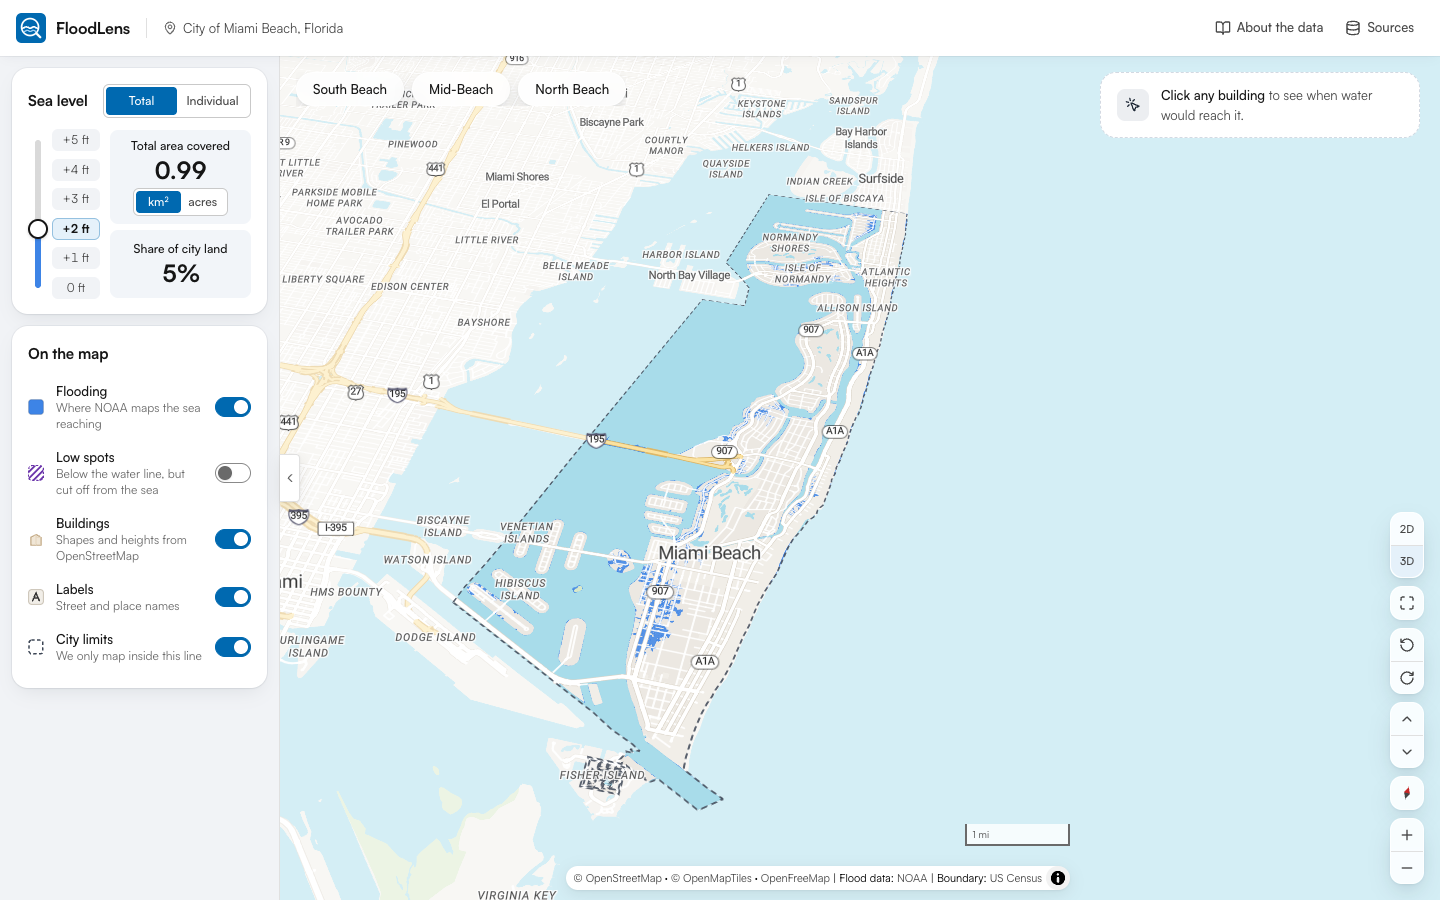
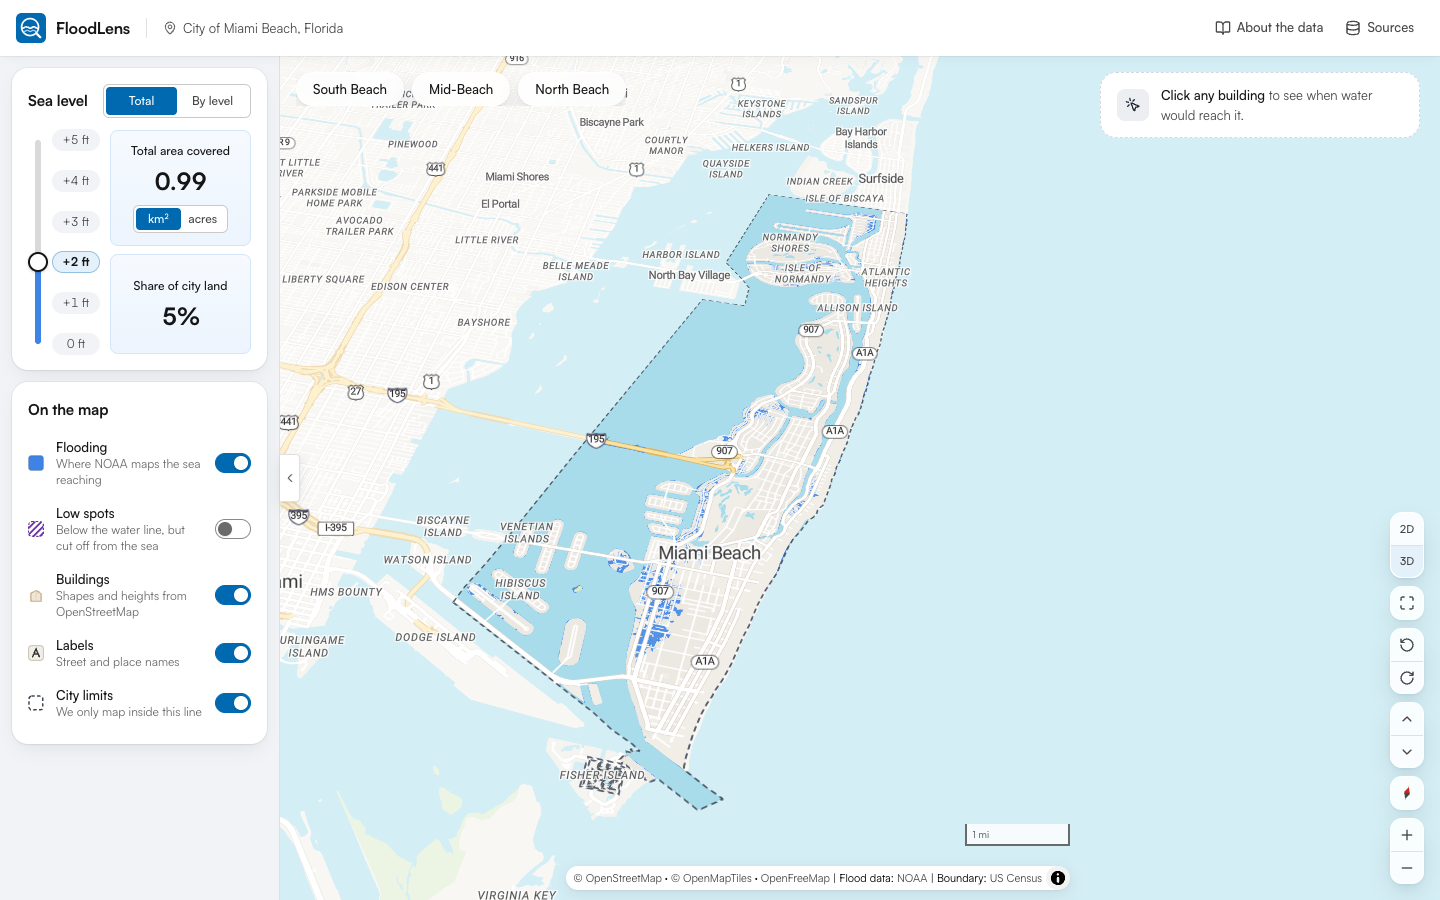
v0.41: Plasma, "By level" and better figure boxes
- By level colours are matplotlib's Plasma: a distinct colour per
  level, closest neighbours OKLab dE 15.1 (was 3.9)
- "Total / By level" replaces "Total / Individual"
- Level chips are pills
- Figure boxes styled like the place card's answer box, equal
  height, roomier; slider up to 224 px
- Height, Footprint and Low spot values in semibold

107 unit tests and 19 end-to-end tests pass.

Changed region(s): [[0.0, 0.1556, 0.1875, 0.8089], [0.125, 0.0933, 0.1562, 0.1244]]

diff --git a/tests/e2e/app.spec.ts b/tests/e2e/app.spec.ts
@@ -35,9 +35,9 @@ test.describe('FloodLens — core flows', () => {
     await req
     await expect(slider).toHaveAttribute('aria-valuetext', '+3 ft above MHHW')
     await expect(figure(page)).toContainText('7.43')
-    // The legend is a plain vertical scale, shown with Individual colours (v0.35): every level listed,
+    // The legend is a plain vertical scale, shown with By level colours (v0.35): every level listed,
     // the chosen one marked, nothing a button.
-    await page.getByRole('radio', { name: 'Individual' }).click()
+    await page.getByRole('radio', { name: 'By level' }).click()
     await slider.focus()
     const legendBox = page.getByRole('region', { name: 'Map legend' })
     await expect(legendBox.getByRole('listitem')).toHaveCount(6)
@@ -79,14 +79,14 @@ test.describe('FloodLens — core flows', () => {
     expect(Math.abs(t.y + t.height / 2 - (g.y + g.height / 2))).toBeLessThan(4)
   })
 
-  test('Total shows all the area covered, Individual only what the level adds (v0.36, v0.38)', async ({ page }) => {
+  test('Total shows all the area covered, By level only what the level adds (v0.36, v0.38)', async ({ page }) => {
     await page.goto('/')
     await waitForMap(page)
     const fig = figure(page)
     const slider = page.getByRole('slider')
     // +2 ft: 0.99 km² in all, of which +2 ft adds 0.95 km² (the rest came at +1 ft).
     await expect(fig).toHaveText('Total area covered0.99km²acresShare of city land5%')
-    await page.getByRole('radio', { name: 'Individual' }).click()
+    await page.getByRole('radio', { name: 'By level' }).click()
     await expect(fig).toHaveText('New area covered0.95km²acresShare of city land5%')
     await slider.focus()
     await page.keyboard.press('ArrowRight')
@@ -98,7 +98,7 @@ test.describe('FloodLens — core flows', () => {
     await expect(fig).toHaveText('Total area covered0km²acresShare of city land0%')
     // Today's level is "0 ft" on the slider (v0.40; "Today" before).
     await expect(seaLevel(page).getByRole('button', { name: '0 ft', exact: true, includeHidden: true })).toHaveClass(/font-bold/)
-    await page.getByRole('radio', { name: 'Individual' }).click()
+    await page.getByRole('radio', { name: 'By level' }).click()
     await slider.focus()
     await page.keyboard.press('ArrowRight')
     await expect(fig).toHaveText('New area covered0.038km²acresShare of city land0.2%')
@@ -116,7 +116,7 @@ test.describe('FloodLens — core flows', () => {
     await expect(unit.getByRole('radio', { name: 'Square kilometres' })).toHaveAttribute('aria-checked', 'true')
     await unit.getByRole('radio', { name: 'Acres' }).click()
     await expect(figure(page)).toHaveText('Total area covered244km²acresShare of city land5%')
-    await page.getByRole('radio', { name: 'Individual' }).click()
+    await page.getByRole('radio', { name: 'By level' }).click()
     await expect(figure(page)).toHaveText('New area covered235km²acresShare of city land5%')
     // The low-spot line follows the unit.
     await page.getByRole('switch', { name: /Low spots/ }).click()
@@ -217,7 +217,7 @@ test.describe('FloodLens — core flows', () => {
     await expect(page.getByRole('button', { name: 'Zoom in' })).toBeVisible()
   })
 
-  test('colour modes: Total by default, Individual gives each foot its own colour, and the choice is remembered', async ({ page }) => {
+  test('colour modes: Total by default, By level gives each foot its own colour, and the choice is remembered', async ({ page }) => {
     await page.goto('/')
     await waitForMap(page)
     const modes = page.getByRole('radiogroup', { name: 'Map colours' })
@@ -231,13 +231,13 @@ test.describe('FloodLens — core flows', () => {
     // One colour needs no key (v0.35).
     await expect(page.getByRole('region', { name: 'Map legend' })).toHaveCount(0)
 
-    await modes.getByRole('radio', { name: 'Individual' }).click()
-    // The owner's yellow → orange swatches (v0.40): +1 ft and +2 ft.
-    await expect.poll(trackColours).toEqual(['rgb(240, 221, 74)', 'rgb(240, 179, 63)'])
+    await modes.getByRole('radio', { name: 'By level' }).click()
+    // Plasma (v0.41): +1 ft orange and +2 ft coral.
+    await expect.poll(trackColours).toEqual(['rgb(252, 166, 54)', 'rgb(225, 100, 98)'])
     await expect(page.getByRole('region', { name: 'Map legend' })).toContainText('Water first reaches')
     await page.reload()
     await waitForMap(page)
-    await expect(page.getByRole('radio', { name: 'Individual' })).toHaveAttribute('aria-checked', 'true')
+    await expect(page.getByRole('radio', { name: 'By level' })).toHaveAttribute('aria-checked', 'true')
   })
 
   test('the map credit starts open, folds into an (i) on the first drag, and the (i) opens it again', async ({ page }) => {
@@ -298,7 +298,7 @@ test.describe('FloodLens — core flows', () => {
   test('layer toggles respond, and the legend follows the flooding layer', async ({ page }) => {
     await page.goto('/')
     await waitForMap(page)
-    await page.getByRole('radio', { name: 'Individual' }).click()
+    await page.getByRole('radio', { name: 'By level' }).click()
     const low = page.getByRole('switch', { name: 'Low spots' })
     const req = page.waitForRequest(/low_2ft\.geojson/)
     await low.click()

diff --git a/src/components/controls/SubmergedArea.tsx b/src/components/controls/SubmergedArea.tsx
@@ -14,15 +14,19 @@ interface Props {
 }
 
 /**
- * One figure in a soft tinted box (v0.39), centred: label, then the number at the agreed stat
- * size (24 px bold), then anything under it. The boxes share the column's height between them
- * and tighten on short windows (the `short` variant), so the panel still fits without scrolling.
+ * One figure in a box, centred: label, then the number at the agreed stat size (24 px bold), then
+ * anything under it. The box matches the place card's "Water reaches at" box, a faint blue
+ * gradient with a hairline (v0.41; a flat grey-blue fill in v0.39–v0.40), so the two panels read
+ * as one design. The elements have room to breathe (8 px label to number, 10 px number to switch).
+ * Both boxes take an equal share of the column (basis 0), so they're the same height whenever
+ * there's room; on the shortest windows the second gives way first. They tighten on short windows
+ * (the `short` variant), so the panel still fits without scrolling.
  */
 function Figure({ label, value, children }: { label: string; value: string; children?: ReactNode }) {
   return (
-    <div className="flex flex-1 flex-col items-center justify-center rounded-lg bg-[#f2f5f9] px-1.5 py-2 text-center short:py-1">
+    <div className="flex flex-1 basis-0 flex-col items-center justify-center rounded-lg border border-[#d5e6fa] bg-gradient-to-b from-[#f6faff] to-[#ecf4fd] px-2 py-3 text-center short:py-0.5">
       <p className="text-[12px] leading-4 font-medium whitespace-nowrap text-fg short:text-[11px] short:leading-[14px]">{label}</p>
-      <p className="mt-0.5 text-[24px] leading-7 font-bold tracking-[-0.03em] text-fg tabular short:text-[20px] short:leading-6">{value}</p>
+      <p className="mt-2 text-[24px] leading-7 font-bold tracking-[-0.03em] text-fg tabular short:mt-1 short:text-[20px] short:leading-6">{value}</p>
       {children}
     </div>
   )
@@ -32,7 +36,7 @@ function Figure({ label, value, children }: { label: string; value: string; chil
  * Land underwater at the chosen level, beside the slider (v0.36; the "Land underwater" card in
  * Insights before). Total colours show everything covered at the level; Individual colours show
  * only what that foot adds to the one below, as each colour on the map does ("Total area covered"
- * and "New area covered", v0.38). Two figures of equal weight in two boxes, 6 px apart (v0.39):
+ * and "New area covered", v0.38). Two figures of equal weight in two boxes, 8 px apart (v0.39):
  * the area, with a km² / acres switch under it in the style of Total / Individual (one unit at a
  * time; v0.38 showed both), and its share of the city's Census land area, the same denominator in
  * both modes. Today's high tide reads 0, never a blank. Nothing is shown until the data has loaded.
@@ -42,9 +46,9 @@ export function SubmergedArea({ manifest, scenarioFt, colorMode, unit, onUnitCha
   if (m2 === undefined) return null
   const landM2 = manifest?.studyArea.boundary?.censusLandM2
   return (
-    <div className="flex h-full flex-col gap-1.5" aria-live="polite">
+    <div className="flex h-full flex-col gap-2 short:gap-1.5" aria-live="polite">
       <Figure label={colorMode === 'simple' ? 'Total area covered' : 'New area covered'} value={formatArea(m2, unit)}>
-        <div className="mt-1">
+        <div className="mt-2.5 short:mt-1">
           <AreaUnitToggle value={unit} onChange={onUnitChange} />
         </div>
       </Figure>

diff --git a/src/components/controls/ScenarioSelector.tsx b/src/components/controls/ScenarioSelector.tsx
@@ -21,7 +21,7 @@ interface Props {
  * panel adds (the low-spot area, v0.36). It never goes below the height of the two figure boxes
  * beside it on a short window.
  */
-const TRACK_H = 'clamp(132px, calc(100vh - var(--fl-panel-rest, 532px) - var(--fl-panel-extra, 0px)), 168px)'
+const TRACK_H = 'clamp(132px, calc(100vh - var(--fl-panel-rest, 532px) - var(--fl-panel-extra, 0px)), 224px)'
 const THUMB = 20
 
 /**
@@ -82,9 +82,9 @@ export function ScenarioSelector({ available, value, onChange, colorMode = 'deta
             />
           </div>
           {/* Each level is a chip you can click (v0.38; plain text before): a light fill at rest, darker on
-              hover, the chosen one filled with the accent tint and bold; the name centred (v0.39), 6 px
-              corners like the toggles and boxes (v0.40; square in v0.39). Today's level is "0 ft"
-              (v0.40). The slider is the keyboard route. 48 px leaves the most room for `children`. */}
+              hover, the chosen one filled with the accent tint and bold; the name centred (v0.39), as
+              pills (v0.41; 6 px corners in v0.40, square in v0.39). Today's level is "0 ft" (v0.40).
+              The slider is the keyboard route. 48 px leaves the most room for `children`. */}
           <div className="relative ml-1 w-12" aria-hidden="true">
             {available.map((ft, i) => (
               <button
@@ -93,7 +93,7 @@ export function ScenarioSelector({ available, value, onChange, colorMode = 'deta
                 tabIndex={-1}
                 onClick={() => onChange(ft)}
                 style={{ bottom: pos(i), height: chipH }}
-                className={`absolute left-0 flex w-full translate-y-1/2 cursor-pointer items-center justify-center rounded-md px-1 text-center text-xs whitespace-nowrap tabular transition-colors ${
+                className={`absolute left-0 flex w-full translate-y-1/2 cursor-pointer items-center justify-center rounded-full px-1 text-center text-xs whitespace-nowrap tabular transition-colors ${
                   ft === value ? 'bg-accent-soft font-bold text-fg ring-1 ring-accent/35 ring-inset' : 'bg-canvas text-fg-muted hover:bg-[#e4e8ee] hover:text-fg'
                 }`}
               >

diff --git a/src/lib/theme.ts b/src/lib/theme.ts
@@ -63,13 +63,15 @@ export type ColorMode = 'simple' | 'detailed'
 export const SIMPLE_COLOR = '#3d84e6'
 
 /**
- * Detailed mode ("Individual"): the level where water first reaches each area, light → dark as
- * the sea rises (more water, darker). v0.40: the owner's own yellow → orange swatches (six of the
- * eight in their reference, picked to stay furthest apart). Drawn at 85% over the land, the
- * closest neighbouring pair is OKLab ΔE 3.9 for normal vision and 2.8 for colour-blind vision,
- * closer than v0.38's ramp, and the yellow end is near the land and buildings for tritanopia;
- * the white edge between levels (`BAND_EDGE`) helps tell them apart. Every band is ΔE 13+ from
- * the water.
+ * Detailed mode ("By level"): the level where water first reaches each area, light → dark as the
+ * sea rises (more water, darker). v0.41: matplotlib's Plasma, six steps, yellow → orange → coral
+ * → magenta → purple → indigo. The owner wanted a different colour for each level that's easy to
+ * tell apart on the map without looking improvised; Plasma is a standard, perceptually even
+ * science palette. Drawn at 85% over the land, the closest neighbouring pair is OKLab ΔE 15.1 for
+ * normal vision (6.2 for protanopia, 9.0 for deuteranopia), and every band is far from the water,
+ * parks and buildings (ΔE 15+). +4 ft's purple is close to the low-spot hatch colour; the hatch
+ * pattern keeps low spots apart.
+ * v0.40: #f3f351 #f0dd4a #f0b33f #ec9a38 #e77631 #e7612a (the owner's yellow → orange, ΔE 3.9).
  * v0.38–v0.39: #fee391 #fec44f #fe9929 #ec7014 #cc4c02 #8c2d04 (yellow → red-brown, ΔE 7.3 / 6.8).
  * v0.37: #ddf0fb #a9d9f5 #6fb9e8 #3593d2 #1168b2 #083d77 (the owner's blues).
  * v0.35–v0.36: #dceff5 #a6d8ed #6db6db #338ec4 #1766a1 #083b75.
@@ -77,12 +79,12 @@ export const SIMPLE_COLOR = '#3d84e6'
  * v0.33 and before: #9ec5f4 #67a3ea #3d80d2 #1f5fae #104180 #022555.
  */
 export const BAND_COLORS: Record<number, string> = {
-  0: '#f3f351',
-  1: '#f0dd4a',
-  2: '#f0b33f',
-  3: '#ec9a38',
-  4: '#e77631',
-  5: '#e7612a',
+  0: '#f0f921',
+  1: '#fca636',
+  2: '#e16462',
+  3: '#b12a90',
+  4: '#6a00a8',
+  5: '#0d0887',
 }
 
 /**

diff --git a/src/components/controls/SubmergedArea.test.tsx b/src/components/controls/SubmergedArea.test.tsx
@@ -41,21 +41,21 @@ describe('<SubmergedArea>', () => {
     expect(boxes(container)).toEqual(['Total area covered2.30km²acres', 'Share of city land23%'])
   })
 
-  it('Individual: only what the level adds to the one below, with the same denominator', () => {
+  it('By level: only what the level adds to the one below, with the same denominator', () => {
     const { container } = render(<Harness ft={3} mode="detailed" />)
     expect(boxes(container)).toEqual(['New area covered1.80km²acres', 'Share of city land18%'])
   })
 
-  it('puts each figure in its own centred box, the share as large as the area (v0.39)', () => {
+  it('puts each figure in its own centred box, styled like the answer box, the share as large as the area (v0.39, v0.41)', () => {
     render(<Harness ft={2} mode="simple" />)
     for (const n of ['0.50', '5%']) {
       const value = screen.getByText(n)
       expect(value).toHaveClass('text-[24px]', 'font-bold')
-      expect(value.parentElement).toHaveClass('text-center', 'bg-[#f2f5f9]')
+      expect(value.parentElement).toHaveClass('text-center', 'border-[#d5e6fa]', 'from-[#f6faff]', 'basis-0')
     }
   })
 
-  it('shows one unit at a time, switched like Total / Individual (v0.39)', async () => {
+  it('shows one unit at a time, switched like Total / By level (v0.39)', async () => {
     render(<Harness ft={2} mode="simple" />)
     const km2 = screen.getByRole('radio', { name: 'Square kilometres' })
     expect(km2).toHaveAttribute('aria-checked', 'true')

diff --git a/src/components/controls/ControlPanel.tsx b/src/components/controls/ControlPanel.tsx
@@ -43,7 +43,7 @@ export function ControlPanel({ manifest }: Props) {
       <section aria-labelledby="sec-level" className="card p-4 short:p-3">
         {/* The colour toggle sits beside the title (v0.35): one colour for all the water, or a
             colour for each foot (v0.34). Named Single and Layered in v0.35, Overview and Layered in v0.37,
-            Total and Individual in v0.38 (the owner's names). */}
+            Total and Individual in v0.38 (the owner's names), Total and By level in v0.41. */}
         <div className="mb-3 flex items-center justify-between gap-3">
           <h2 id="sec-level" className="t-title text-[15px] font-bold tracking-[-0.01em]">
             Sea level
@@ -56,7 +56,7 @@ export function ControlPanel({ manifest }: Props) {
             onChange={(mode) => dispatch({ type: 'setColorMode', mode })}
             options={[
               { value: 'simple', label: 'Total' },
-              { value: 'detailed', label: 'Individual' },
+              { value: 'detailed', label: 'By level' },
             ]}
           />
         </div>

diff --git a/tests/e2e/screenshots.spec.ts b/tests/e2e/screenshots.spec.ts
@@ -16,12 +16,12 @@ test.describe('screenshots', () => {
     await page.waitForTimeout(2500)
     await page.screenshot({ path: `${OUT}/01-overview-2ft-3d.png` })
 
-    // Individual colours at the top level (+5 ft): what +5 ft adds, beside the slider
-    await page.getByRole('radio', { name: 'Individual' }).click()
+    // By level colours at the top level (+5 ft): what +5 ft adds, beside the slider
+    await page.getByRole('radio', { name: 'By level' }).click()
     await page.getByRole('slider').focus()
     await page.keyboard.press('End')
     await page.waitForTimeout(2500)
-    await page.screenshot({ path: `${OUT}/02-individual-5ft.png` })
+    await page.screenshot({ path: `${OUT}/02-by-level-5ft.png` })
 
     // 2D + inspection of the map centre
     await page.getByRole('button', { name: '2D view' }).click()

diff --git a/src/components/insights/InspectionCard.test.tsx b/src/components/insights/InspectionCard.test.tsx
@@ -85,6 +85,8 @@ describe('<InspectionCard>', () => {
     const icon = (label: string) => screen.getAllByRole('term').find((t) => t.textContent === label)!.querySelector('svg')!
     for (const label of ['Height', 'Footprint', 'Low spot']) expect(icon(label).parentElement).toHaveClass('size-7', 'rounded-lg')
     expect(icon('Low spot')).toHaveClass('lucide-low-spot')
+    // Values in semibold (v0.41).
+    for (const d of screen.getAllByRole('definition')) expect(d).toHaveClass('font-semibold')
   })
 
   it('explains places outside the city boundary instead of showing results', () => {

diff --git a/src/styles/index.css b/src/styles/index.css
@@ -1,8 +1,9 @@
 @import 'tailwindcss';
 @import 'maplibre-gl/dist/maplibre-gl.css';
 
-/* Windows 700 px tall or less (v0.39): the left panel tightens so it still fits without scrolling. */
-@custom-variant short (@media (max-height: 700px));
+/* Windows 750 px tall or less (v0.39; 700 px until v0.40): the left panel tightens so it still
+   fits without scrolling. */
+@custom-variant short (@media (max-height: 750px));
 
 /* ---------------------------------------------------------------------------
    Design tokens — light, ArcGIS/Calcite-inspired. One source of truth for UI

diff --git a/src/components/controls/ControlPanel.test.tsx b/src/components/controls/ControlPanel.test.tsx
@@ -23,7 +23,7 @@ describe('<ControlPanel>', () => {
     expect(screen.getByRole('radio', { name: 'Total' })).toHaveAttribute('aria-checked', 'true')
     expect(screen.getByText('Total area covered')).toBeInTheDocument()
     expect(screen.getByText('0.50')).toBeInTheDocument()
-    await userEvent.click(screen.getByRole('radio', { name: 'Individual' }))
+    await userEvent.click(screen.getByRole('radio', { name: 'By level' }))
     expect(screen.getByText('New area covered')).toBeInTheDocument()
     expect(screen.getByText('0.48')).toBeInTheDocument()
   })

diff --git a/src/components/ui/Switch.tsx b/src/components/ui/Switch.tsx
@@ -11,7 +11,7 @@ interface Props {
 
 /**
  * Accessible toggle: a native button with role="switch"; the whole row is clickable. Rows tighten
- * slightly on windows 700 px tall or less (v0.38), so the left panel still fits without scrolling.
+ * slightly on short windows (the `short` variant, v0.38), so the left panel still fits without scrolling.
  */
 export function Switch({ checked, onChange, label, description, swatch, disabled }: Props) {
   const id = useId()

diff --git a/src/components/insights/InspectionCard.tsx b/src/components/insights/InspectionCard.tsx
@@ -43,7 +43,8 @@ function Row({
         </span>
         {label}
       </dt>
-      <dd className="text-right text-[20px] leading-7 font-medium text-fg tabular">{value}</dd>
+      {/* Semibold (v0.41; medium before), at the owner's request. */}
+      <dd className="text-right text-[20px] leading-7 font-semibold text-fg tabular">{value}</dd>
     </div>
   )
 }
